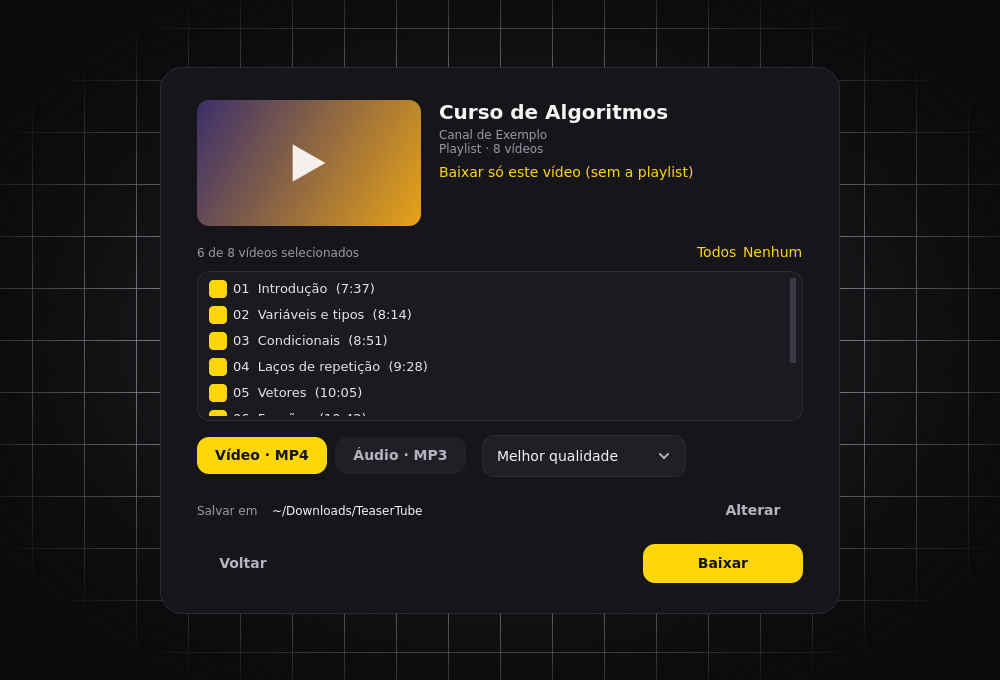
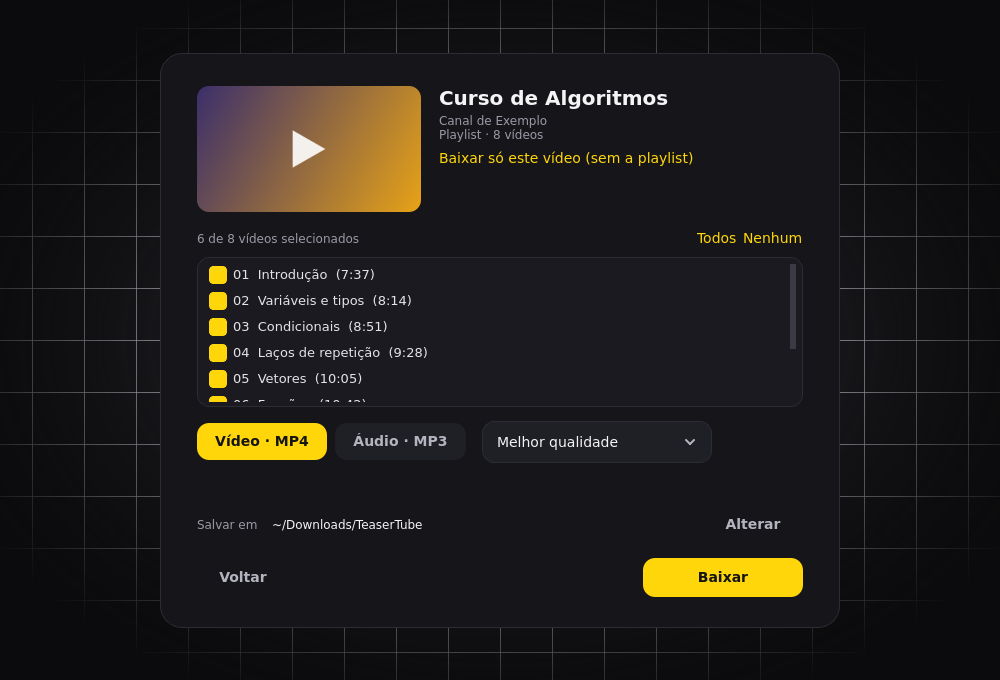
Vídeos longos: tamanho estimado por qualidade, aviso de espaço em disco, bloqueio de live em andamento, download em partes simultâneas, nomes longos

diff --git a/teasertube/core.py b/teasertube/core.py
@@ -40,6 +40,16 @@ class MediaInfo:
     entries: list[Entry] = field(default_factory=list)
     # Link só do vídeo quando a URL colada é de um vídeo dentro de uma playlist.
     single_url: Optional[str] = None
+    # Tamanho estimado em bytes do vídeo de cada altura e do melhor áudio (vazio se desconhecido).
+    sizes: dict[int, int] = field(default_factory=dict)
+    audio_size: int = 0
+    best_size: int = 0  # tamanho total (vídeo + áudio) da opção "melhor qualidade"
+    live_status: Optional[str] = None  # "is_live", "is_upcoming", "was_live", "not_live"
+
+    @property
+    def is_ongoing(self) -> bool:
+        """Live no ar ou ainda por começar: não dá para baixar uma gravação completa."""
+        return self.live_status in ("is_live", "is_upcoming")
 
 
 @dataclass
@@ -169,6 +179,41 @@ def _thumb(info: dict) -> Optional[str]:
     return info.get("thumbnail") or (thumbs[-1].get("url") if thumbs else None)
 
 
+FORMAT_SORT = ["res", "ext:mp4:m4a"]
+
+
+def _format_size(f: dict, duration) -> int:
+    n = f.get("filesize") or f.get("filesize_approx")
+    if not n and f.get("tbr") and duration:
+        n = f["tbr"] * 1000 / 8 * duration
+    return int(n or 0)
+
+
+def _chosen_sizes(ydl, info: dict) -> dict[Optional[int], int]:
+    """Pergunta ao yt-dlp qual formato ele baixaria em cada altura e soma o tamanho (vídeo + áudio)."""
+    import copy
+
+    out: dict[Optional[int], int] = {}
+    duration = info.get("duration")
+    heights = {int(f["height"]) for f in info.get("formats") or [] if f.get("height") and f.get("vcodec") not in (None, "none")}
+    saved = ydl.format_selector
+    try:
+        for h in [None, *sorted(heights)]:
+            limit = f"[height<={h}]" if h else ""
+            ydl.format_selector = ydl.build_format_selector(f"bv*{limit}+ba/b{limit}")
+            try:
+                res = ydl.process_video_result(copy.deepcopy(info), download=False)
+            except Exception:  # noqa: BLE001
+                continue
+            parts = res.get("requested_formats") or [res]
+            total = sum(_format_size(f, duration) for f in parts)
+            if total:
+                out[h] = total
+    finally:
+        ydl.format_selector = saved
+    return out
+
+
 def _base_opts() -> dict:
     opts: dict = {
         "quiet": True,
@@ -179,6 +224,8 @@ def _base_opts() -> dict:
         "fragment_retries": 10,
         "extractor_retries": 3,
         "socket_timeout": 30,
+        "concurrent_fragment_downloads": 4,  # vídeos longos vêm em milhares de pedaços
+        "trim_file_name": 150,  # títulos de lives costumam estourar o limite do sistema
     }
     runtimes = js_runtimes()
     if runtimes:
@@ -201,10 +248,12 @@ def fetch_info(url: str, single: bool = False) -> MediaInfo:
             "noplaylist": single,
             "extract_flat": "in_playlist",
             "playlist_items": "1:500",
+            "format_sort": FORMAT_SORT,
         }
     )
     with yt_dlp.YoutubeDL(opts) as ydl:
         info = ydl.extract_info(url, download=False)
+        chosen = _chosen_sizes(ydl, info) if info.get("_type") != "playlist" else {}
 
     if info.get("_type") == "playlist":
         entries = []
@@ -226,14 +275,34 @@ def fetch_info(url: str, single: bool = False) -> MediaInfo:
             single_url=_single_video_url(url),
         )
 
-    heights = sorted(
-        {
-            int(f["height"])
-            for f in info.get("formats") or []
-            if f.get("height") and f.get("vcodec") not in (None, "none")
-        },
-        reverse=True,
-    )
+    formats = info.get("formats") or []
+    duration = info.get("duration")
+
+    def size_of(f: dict) -> int:
+        n = f.get("filesize") or f.get("filesize_approx")
+        if not n and f.get("tbr") and duration:
+            n = f["tbr"] * 1000 / 8 * duration
+        return int(n or 0)
+
+    # O app prefere MP4 (vídeo) e M4A (áudio): estima pelo formato que será realmente baixado.
+    by_height: dict[int, list[tuple[bool, int]]] = {}
+    audios: list[tuple[bool, int]] = []
+    for f in formats:
+        if f.get("vcodec") not in (None, "none") and f.get("height"):
+            by_height.setdefault(int(f["height"]), []).append((f.get("ext") == "mp4", size_of(f)))
+        elif f.get("vcodec") in (None, "none") and f.get("acodec") not in (None, "none"):
+            audios.append((f.get("ext") == "m4a", size_of(f)))
+
+    def pick(options: list[tuple[bool, int]]) -> int:
+        preferred = [n for ok, n in options if ok and n]
+        return max(preferred) if preferred else max((n for _, n in options), default=0)
+
+    audio_size = pick(audios)
+    # Reserva (se o yt-dlp não conseguiu simular a escolha): maior MP4 da altura + áudio.
+    sizes = {h: pick(opts) + audio_size for h, opts in by_height.items() if pick(opts)}
+    sizes.update({h: n for h, n in chosen.items() if h is not None})
+    best_total = chosen.get(None, 0)
+    heights = sorted(sizes, reverse=True)
     return MediaInfo(
         url=url,
         kind="video",
@@ -242,6 +311,10 @@ def fetch_info(url: str, single: bool = False) -> MediaInfo:
         duration=info.get("duration"),
         thumbnail=_thumb(info),
         heights=heights,
+        sizes={h: n for h, n in sizes.items() if n},
+        best_size=best_total,
+        audio_size=audio_size,
+        live_status=info.get("live_status"),
     )
 
 
@@ -299,6 +372,45 @@ def _failures(errors: list[str], info: MediaInfo) -> list[Failure]:
     return out
 
 
+def fmt_size(n: Optional[float]) -> str:
+    """Tamanho legível em português: 1,5 GB."""
+    if not n:
+        return ""
+    for unit in ("B", "KB", "MB", "GB", "TB"):
+        if n < 1024 or unit == "TB":
+            return (f"{n:.0f} {unit}" if unit == "B" else f"{n:.1f} {unit}").replace(".", ",")
+        n /= 1024
+    return ""
+
+
+def fmt_eta(seconds: Optional[float]) -> str:
+    if seconds is None:
+        return ""
+    s = int(seconds)
+    h, rem = divmod(s, 3600)
+    m, sec = divmod(rem, 60)
+    return f"{h}h{m:02d}min" if h else (f"{m}min{sec:02d}s" if m else f"{sec}s")
+
+
+def estimate_bytes(info: MediaInfo, mode: str, height: Optional[int]) -> int:
+    """Tamanho final estimado em bytes (0 = desconhecido)."""
+    if info.kind != "video":
+        return 0
+    if mode == "audio":
+        return int((info.duration or 0) * 192_000 / 8) or info.audio_size
+    if not info.sizes:
+        return 0
+    if height is None:
+        return info.best_size or info.sizes[max(info.sizes)]
+    fits = [h for h in info.sizes if h <= height]
+    return info.sizes[max(fits)] if fits else min(info.sizes.values())
+
+
+def disk_needed(estimate: int) -> int:
+    """Espaço livre necessário: durante a junção de vídeo e áudio o disco guarda tudo duas vezes."""
+    return int(estimate * 2.1)
+
+
 def download(
     info: MediaInfo,
     mode: str,  # "video" | "audio"
@@ -336,7 +448,7 @@ def download(
     else:
         limit = f"[height<={height}]" if height else ""
         opts["format"] = f"bv*{limit}+ba/b{limit}"
-        opts["format_sort"] = ["res", "ext:mp4:m4a"]
+        opts["format_sort"] = FORMAT_SORT
         opts["merge_output_format"] = "mp4"
 
     total_items = total_all = len(order)
@@ -364,9 +476,13 @@ def download(
             total = d.get("total_bytes") or d.get("total_bytes_estimate")
             frac = (d.get("downloaded_bytes") or 0) / total if total else 0
             overall = (pos + (streams_done.get(pi, 0) + frac) / n_streams) / total_items
-            bits = [_fmt_bytes(d.get("speed")) + "/s" if d.get("speed") else ""]
+            bits = []
+            if total:
+                bits.append(f"{fmt_size(d.get('downloaded_bytes') or 0)} de {fmt_size(total)}")
+            if d.get("speed"):
+                bits.append(f"{fmt_size(d['speed'])}/s")
             if d.get("eta") is not None:
-                bits.append(f"faltam {int(d['eta'])}s")
+                bits.append(f"faltam {fmt_eta(d['eta'])}")
             on_progress(Progress(label(d), overall * 100, "  ·  ".join(b for b in bits if b)))
         elif d["status"] == "finished":
             streams_done[pi] = streams_done.get(pi, 0) + 1

diff --git a/teasertube/gui.py b/teasertube/gui.py
@@ -3,6 +3,7 @@ from __future__ import annotations
 
 import html
 import os
+import shutil
 import subprocess
 import sys
 import threading
@@ -128,6 +129,17 @@ def open_folder(path: str) -> None:
         subprocess.Popen(["open", path])
     else:
         subprocess.Popen(["xdg-open", path])
+
+
+def free_bytes(path: str) -> int:
+    """Espaço livre no disco da pasta (sobe até a pasta existente mais próxima)."""
+    p = Path(path).expanduser()
+    while not p.exists() and p != p.parent:
+        p = p.parent
+    try:
+        return shutil.disk_usage(p).free
+    except OSError:
+        return 0
 
 
 def fmt_duration(seconds) -> str:
@@ -455,6 +467,10 @@ class MainWindow(QWidget):
         top.addLayout(meta, 1)
         lay.addLayout(top)
 
+        self.live_note = label("", "error", wrap=True)
+        self.live_note.hide()
+        lay.addWidget(self.live_note)
+
         # Playlist: lista de vídeos com caixas de seleção
         self.playlist_box = QWidget()
         pl = QVBoxLayout(self.playlist_box)
@@ -493,10 +509,14 @@ class MainWindow(QWidget):
         self.fmt_group.idToggled.connect(self._format_changed)
         fmt_row.addSpacing(8)
         self.quality = Combo()
-        self.quality.setMinimumWidth(190)
+        self.quality.setMinimumWidth(230)
+        self.quality.currentIndexChanged.connect(self._update_size_hint)
         fmt_row.addWidget(self.quality)
         fmt_row.addStretch(1)
         lay.addLayout(fmt_row)
+
+        self.size_hint = label("", "muted", wrap=True)
+        lay.addWidget(self.size_hint)
 
         folder_row = QHBoxLayout()
         folder_row.addWidget(label("Salvar em", "muted"))
@@ -664,25 +684,70 @@ class MainWindow(QWidget):
 
         self._fill_qualities()
         self.folder_label.setText(self._elide(self.folder))
+        self.live_note.setVisible(info.is_ongoing)
+        if info.is_ongoing:
+            self.live_note.setText(
+                "Esta transmissão ainda não terminou."
+                if info.live_status == "is_live"
+                else "Esta transmissão ainda não começou."
+            )
+            self.live_note.setText(self.live_note.text() + " Quando acabar, volte aqui e baixe a gravação.")
+        if not is_pl:
+            self.download_btn.setEnabled(not info.is_ongoing)
         self._show(self.p_options)
 
     def _fill_qualities(self) -> None:
+        self.quality.blockSignals(True)
         self.quality.clear()
+        info = self.info
         if self.btn_audio.isChecked():
-            self.quality.addItem("MP3 · 192 kbps")
+            size = core.fmt_size(core.estimate_bytes(info, "audio", None)) if info else ""
+            self.quality.addItem("MP3 · 192 kbps" + (f" · ~{size}" if size else ""))
             self.quality.setEnabled(False)
-            return
-        self.quality.setEnabled(True)
-        self.quality.addItem("Melhor qualidade", None)
-        if self.info and self.info.kind == "video" and self.info.heights:
-            for h in self.info.heights:
-                if h >= 144:
-                    self.quality.addItem(f"{h}p", h)
         else:
-            for h in (1080, 720, 480, 360):
-                self.quality.addItem(f"{h}p", h)
-        if self.quality.count() > 1:
-            self.quality.setCurrentIndex(0)
+            self.quality.setEnabled(True)
+
+            def add(text: str, height) -> None:
+                size = core.fmt_size(core.estimate_bytes(info, "video", height)) if info else ""
+                self.quality.addItem(text + (f" · ~{size}" if size else ""), height)
+
+            add("Melhor qualidade", None)
+            if info and info.kind == "video" and info.heights:
+                for h in info.heights:
+                    if h >= 144:
+                        add(f"{h}p", h)
+            else:
+                for h in (1080, 720, 480, 360):
+                    add(f"{h}p", h)
+        self.quality.blockSignals(False)
+        self._update_size_hint()
+
+    def _update_size_hint(self, *_args) -> None:
+        """Mostra o tamanho estimado e avisa se o disco não aguenta."""
+        info = self.info
+        if not info or info.kind != "video":
+            self.size_hint.setText("")
+            return
+        mode = "audio" if self.btn_audio.isChecked() else "video"
+        height = self.quality.currentData() if mode == "video" else None
+        estimate = core.estimate_bytes(info, mode, height)
+        free = free_bytes(self.folder)
+        if not estimate:
+            self.size_hint.setText(f"Espaço livre na pasta: {core.fmt_size(free)}")
+            self.size_hint.setStyleSheet("")
+            return
+        needed = core.disk_needed(estimate)
+        if free and free < needed:
+            self.size_hint.setText(
+                f"Espaço insuficiente: precisa de ~{core.fmt_size(needed)} livres "
+                f"(durante a junção de vídeo e áudio o arquivo fica duplicado) e a pasta tem {core.fmt_size(free)}."
+            )
+            self.size_hint.setStyleSheet("color:#ff8a8a;")
+        else:
+            self.size_hint.setText(
+                f"Tamanho estimado: ~{core.fmt_size(estimate)}  ·  espaço livre: {core.fmt_size(free)}"
+            )
+            self.size_hint.setStyleSheet("")
 
     def _format_changed(self, _id: int, checked: bool) -> None:
         if checked:
@@ -717,6 +782,7 @@ class MainWindow(QWidget):
             self.folder = chosen
             self.settings.setValue("folder", chosen)
             self.folder_label.setText(self._elide(chosen))
+            self._update_size_hint()
 
     def on_back(self) -> None:
         self._show(self.p_home)
@@ -733,6 +799,14 @@ class MainWindow(QWidget):
         mode = "audio" if self.btn_audio.isChecked() else "video"
         height = self.quality.currentData() if mode == "video" else None
         selected = self._selected() if info.kind == "playlist" else None
+        estimate = core.estimate_bytes(info, mode, height)
+        if estimate and free_bytes(self.folder) < core.disk_needed(estimate):
+            self._on_fail(
+                f"Espaço insuficiente no disco: o download precisa de ~{core.fmt_size(core.disk_needed(estimate))} "
+                f"livres e a pasta tem {core.fmt_size(free_bytes(self.folder))}. "
+                "Escolha outra pasta (botão Alterar) ou uma qualidade menor."
+            )
+            return
         os.makedirs(self.folder, exist_ok=True)
         self.cancel = threading.Event()
         cancel = self.cancel

diff --git a/README.md b/README.md
@@ -51,7 +51,8 @@ Marque só os vídeos que quiser. Cada playlist vai para a própria pasta, numer
 </table>
 
 - **Nada para instalar além do Python:** o ffmpeg e o runtime JS vêm junto, como pacotes pip.
-- **Progresso e cancelar:** acompanhe a velocidade e o tempo restante.
+- **Vídeos longos e lives gravadas:** funciona com vídeos de várias horas. Mostra o tamanho estimado de cada qualidade, avisa antes de começar se o disco não tem espaço e baixa em partes simultâneas para ir mais rápido.
+- **Progresso e cancelar:** acompanhe o quanto já baixou, a velocidade e o tempo restante.
 - **Seus arquivos ficam à mão:** por padrão, na pasta `downloads/` do próprio app (dá para trocar).
 
 <p align="center">
@@ -169,6 +170,12 @@ Veja como conferir o seu download e como reportar um problema em [SECURITY.md](S
 
 Pull requests são bem-vindos. O código fica em `teasertube/` (`core.py` cuida dos downloads,
 `gui.py` da interface). Os scripts em `tools/` regeneram o logo, os ícones e as imagens deste README.
+
+## Limitações
+
+- **Lives que ainda estão no ar** não podem ser baixadas: o app avisa e pede para esperar a transmissão terminar para baixar a gravação.
+- Em pen drives ou discos formatados como **FAT32**, arquivos acima de 4 GB não cabem; use um disco NTFS, exFAT, ext4 ou APFS.
+- Vídeos de várias horas em 1080p ou mais ocupam muitos gigabytes; durante a junção de vídeo e áudio o espaço usado dobra.
 
 ## Aviso legal
 
